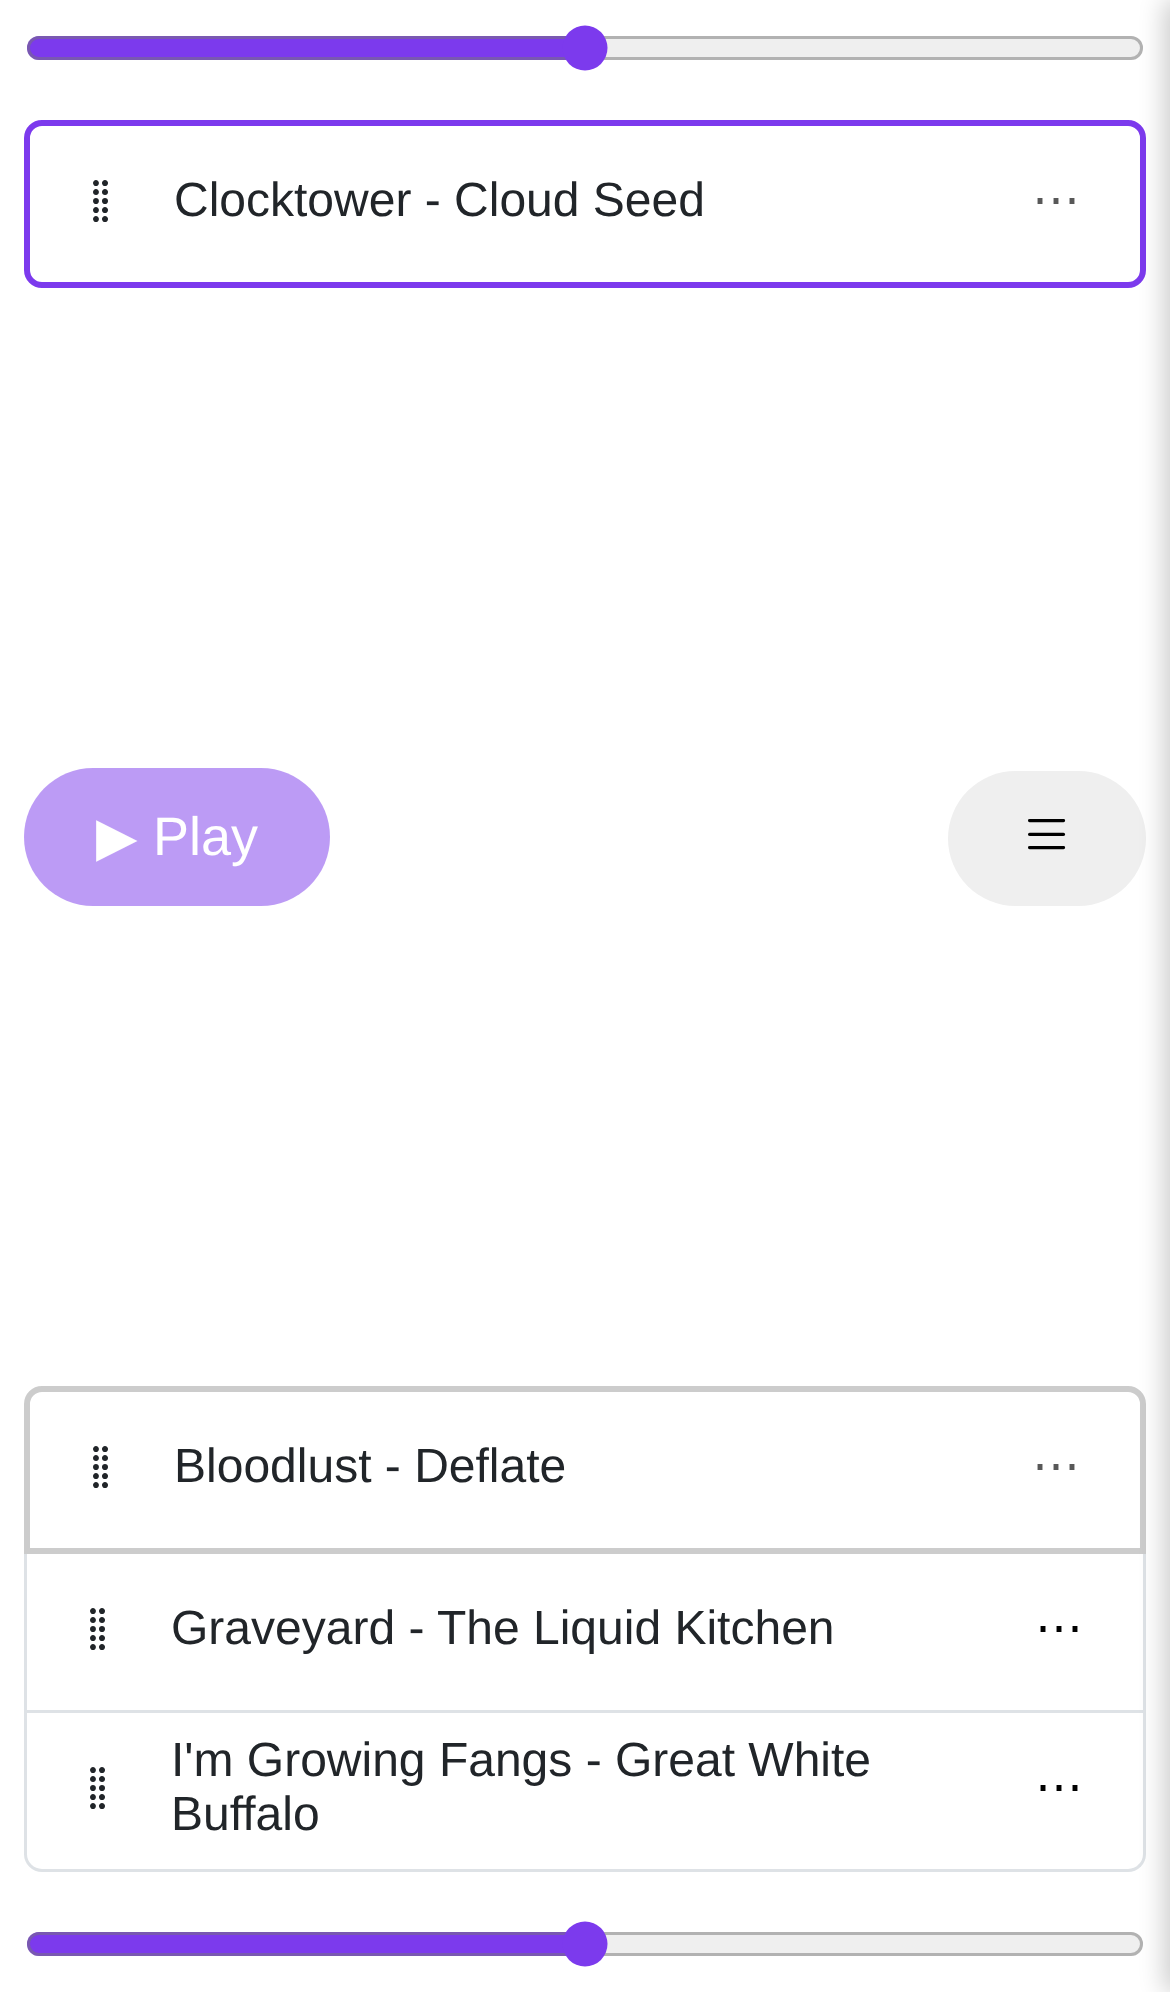
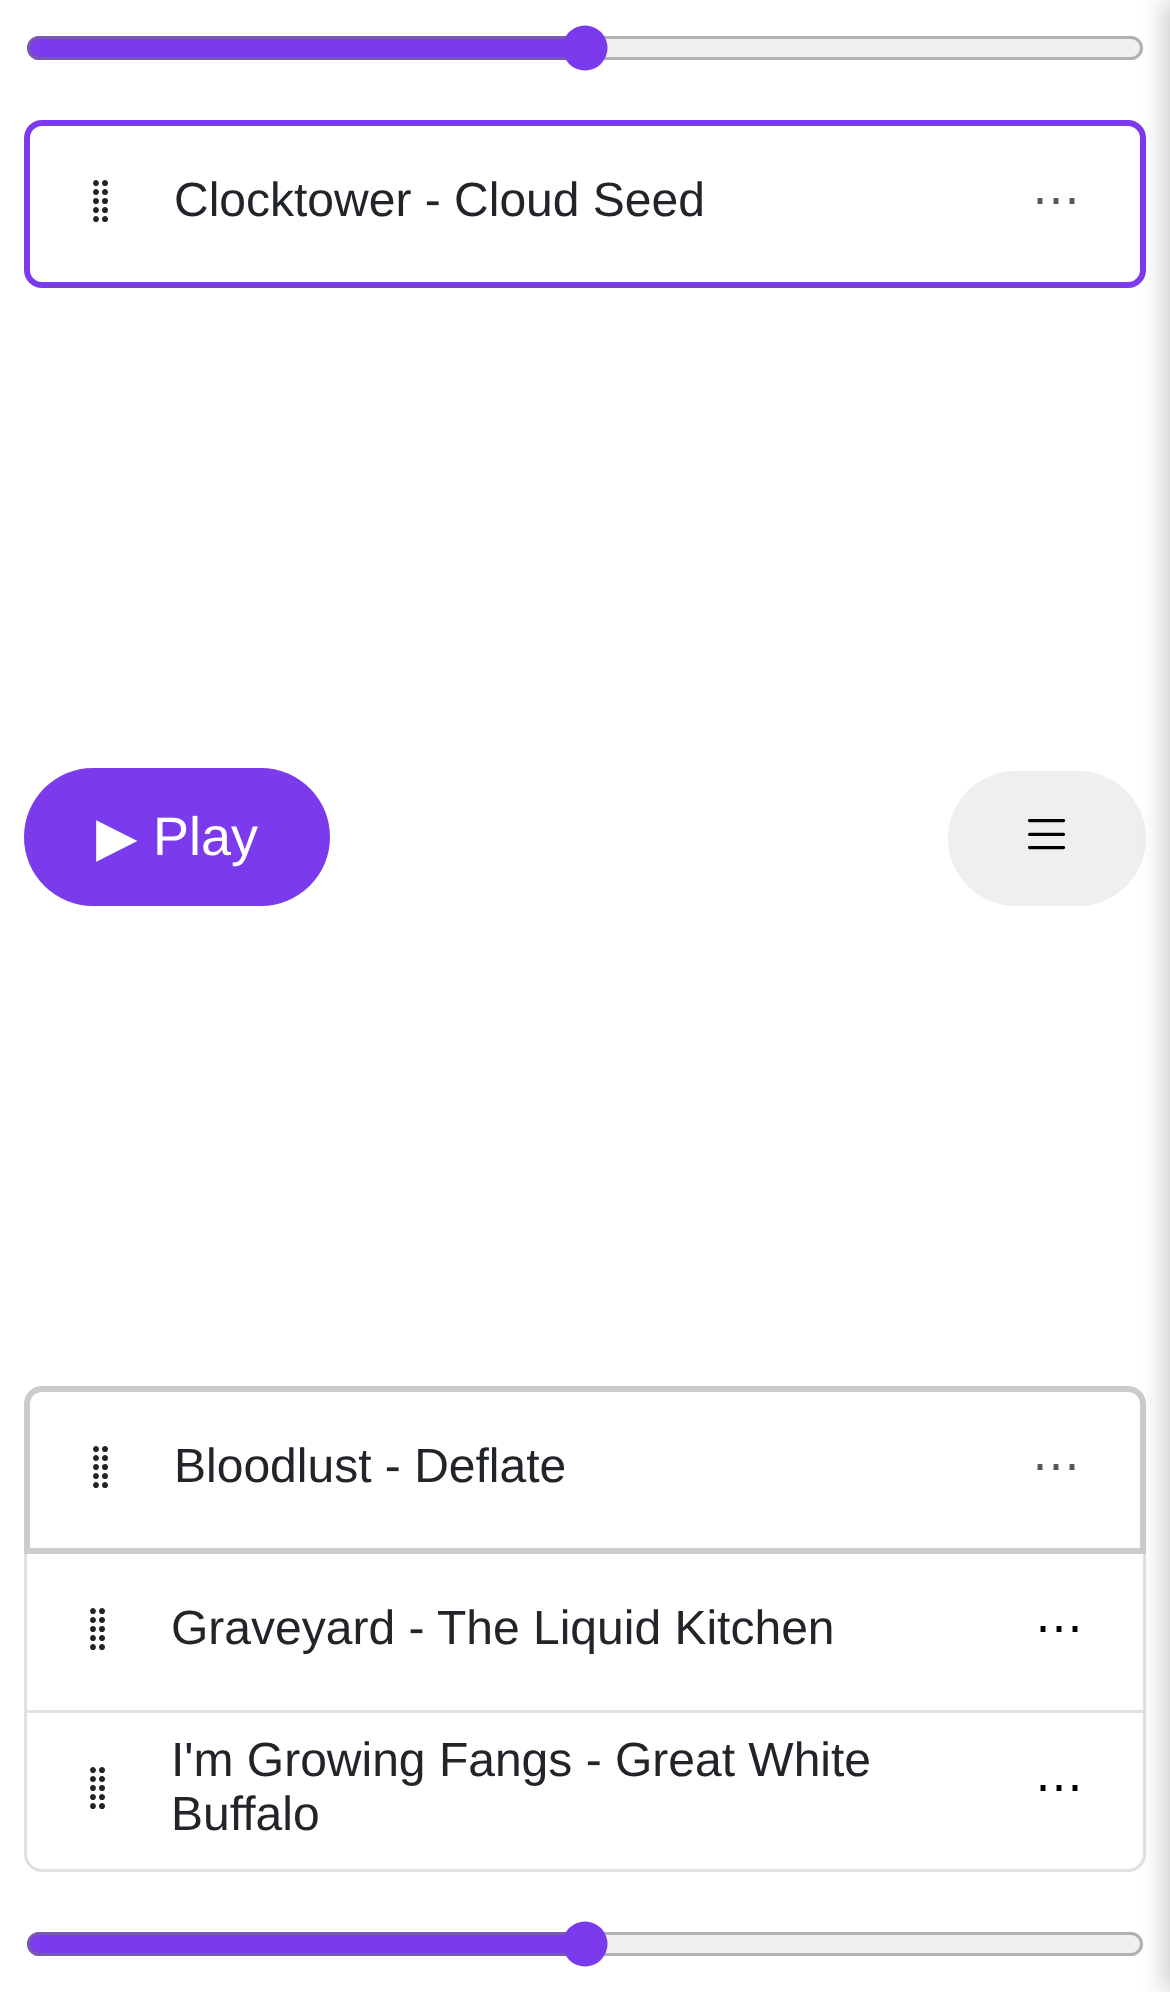
Move playlist preloading logic from Effects to AudioPlayer component

Changed region(s): [[0.0, 0.3735, 0.3077, 0.4669]]

diff --git a/App.Tests/RemotePageTests.cs b/App.Tests/RemotePageTests.cs
@@ -6,25 +6,29 @@ using TUnit.Playwright;
 [DependsOn<PlayerPageTests>]
 public class RemotePageTests : PageTest
 {
-    public override BrowserNewContextOptions ContextOptions(TestContext testContext)
-    {
-        return new BrowserNewContextOptions(Playwright.Devices["iPhone 13"])
-        {
-            Locale = "en-US",
-            ColorScheme = ColorScheme.Light,
-        };
-    }
+	public override BrowserNewContextOptions ContextOptions(TestContext testContext)
+	{
+		return new BrowserNewContextOptions(Playwright.Devices["iPhone 13"])
+		{
+				Locale = "en-US",
+				ColorScheme = ColorScheme.Light,
+		};
+	}
 
-    [Test]
-    public async Task CaptureRemotePage()
-    {
-        await Page.GotoAsync($"{AppFixture.BaseUrl}/Remote", new PageGotoOptions
-        {
-            WaitUntil = WaitUntilState.NetworkIdle,
-        });
-        await Expect(Page.Locator("#remote-container")).ToBeVisibleAsync();
+	[Test]
+	public async Task CaptureRemotePage()
+	{
+		await Page.GotoAsync($"{AppFixture.BaseUrl}/Remote", new PageGotoOptions
+		{
+				WaitUntil = WaitUntilState.NetworkIdle,
+		});
+		await Expect(Page.Locator("#remote-container")).ToBeVisibleAsync();
 
-        var screenshot = await Page.ScreenshotAsync();
-        await Verify(screenshot, "png");
-    }
+		var playButton = Page.Locator("#remote-container")
+				.GetByRole(AriaRole.Button, new() {Name = "▶ Play"});
+		await Expect(playButton).ToBeEnabledAsync(new() {Timeout = 30_000});
+
+		var screenshot = await Page.ScreenshotAsync();
+		await Verify(screenshot, "png");
+	}
 }

diff --git a/Features/Playback/Effects.cs b/Features/Playback/Effects.cs
@@ -8,20 +8,6 @@ public class Effects(
 		IState<GamePhases.State> gamePhaseState)
 {
 	[EffectMethod]
-	public Task OnPlaylistsLoaded(PlaylistsLoadedAction action, IDispatcher dispatcher)
-	{
-		var firstDaySong = playlistState.Value.DayPlaylist.Songs.FirstOrDefault();
-		if (firstDaySong is not null)
-			dispatcher.Dispatch(new LoadSongSignal(firstDaySong));
-
-		var firstNightSong = playlistState.Value.NightPlaylist.Songs.FirstOrDefault();
-		if (firstNightSong is not null)
-			dispatcher.Dispatch(new LoadSongSignal(firstNightSong));
-
-		return Task.CompletedTask;
-	}
-
-	[EffectMethod]
 	public Task Play(PlayAction action, IDispatcher dispatcher)
 	{
 		var (_, currentSong, gain, nextSong) = GetSongsAndGainForCurrentGamePhase();
